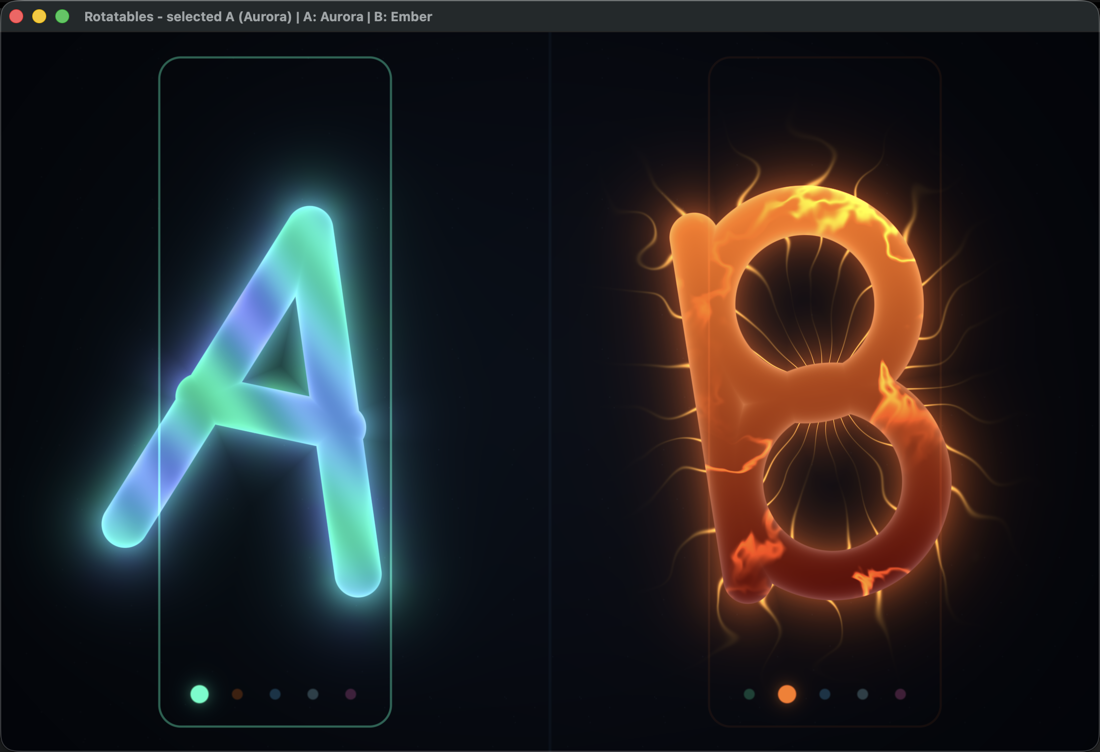
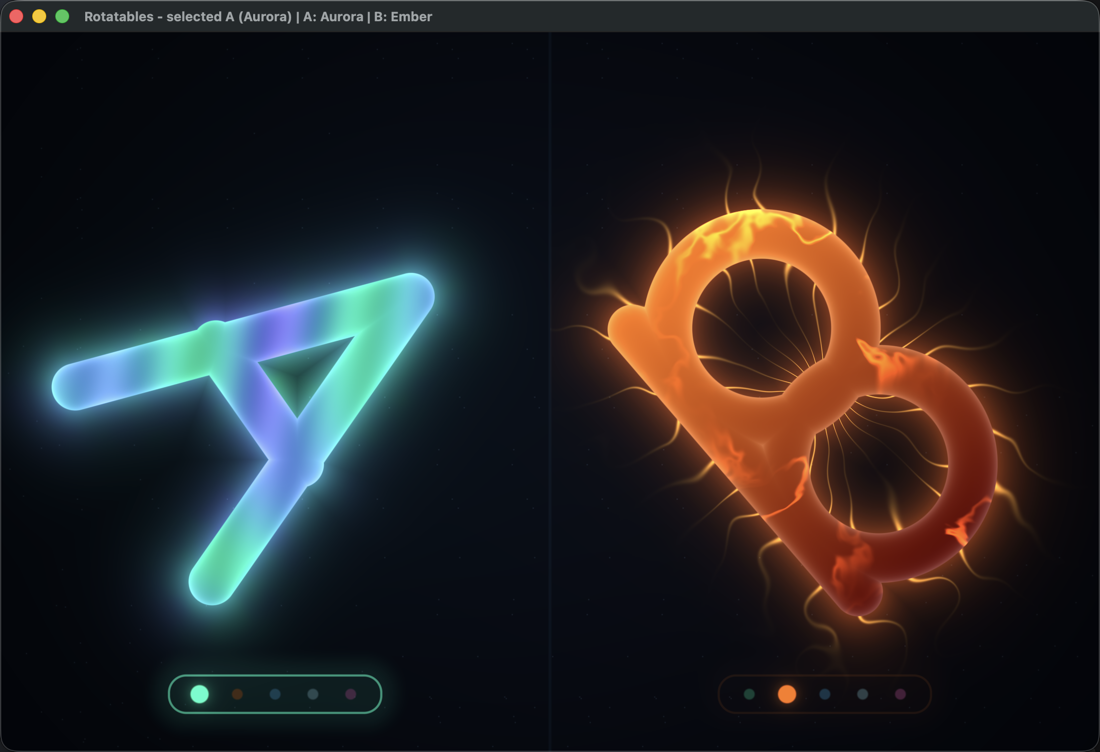
shrink skin selectors to the option row

diff --git a/Games/02-Rotatables/README.md b/Games/02-Rotatables/README.md
@@ -1,7 +1,7 @@
 # Rotatables
 
 Rotating **A** and rotating **B** are neighbors. Each has its own rotation and
-skin; the selected neighbor is framed in its skin's accent color.
+skin; the selected neighbor's skin selector is framed in its accent color.
 
 ![Rotatables showing Aurora A and Ember B](Docs/screenshot.png)
 
@@ -110,15 +110,15 @@ window, and the fragment shader evaluates:
 - a per-skin fill function,
 - a per-skin edge function,
 - antialiasing from `fwidth`, and
-- the selection frames and skin pips.
+- a compact selector around each row of skin pips.
 
 `skinFill` and `skinEdge` are separate functions selected by an integer uniform.
 Adding a skin means extending the enum, appending its functions, and adding its
 pip color; the renderer and game state need no changes beyond that.
 
 The two panels are laid out from the current aspect ratio each frame. Glyphs
-rotate around their own centers while the selection frames and pips stay
-upright, which keeps the interface readable at every rotation angle.
+rotate around their own centers while the selectors and pips stay upright,
+which keeps the interface readable at every rotation angle.
 
 ### Include/format/build checks are local
 
@@ -183,7 +183,7 @@ for the full tooling setup.
    generated during the build.
 5. The fragment shader chooses the left or right panel, rotates that glyph's
    coordinates, evaluates the stroke SDF and the active skin, then adds the
-   stable panel frame and five skin pips.
+   compact skin selector and five pips.
 
 ## Extending the game
 
